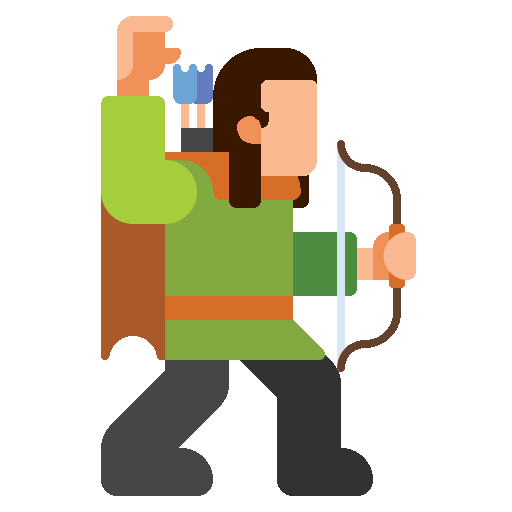
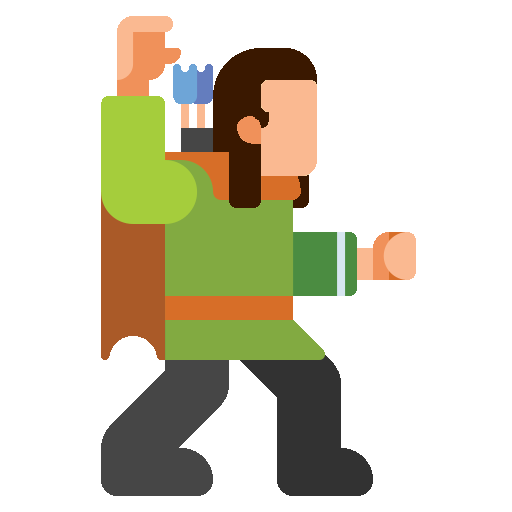
armes projectiles et tirs en cours

Changed region(s): [[0.6562, 0.25, 0.8125, 0.4688], [0.6562, 0.5312, 0.8125, 0.75]]

diff --git a/joueur.py b/joueur.py
@@ -3,33 +3,43 @@ import sys
 import ctypes
 import math
 from projectile import Projectile
-from tirs import Tir
+from arme import Arme
 
 
 class Player(pygame.sprite.Sprite):
-    def __init__(self, health=4, max_health=4, velocity=15, image="humain.png", weight=85, force=30):
+    def __init__(self, health=4, max_health=4, velocity=1, image="humain.png", weight=85, force=30, arme=Arme()):
         super().__init__()
         self.health = health
         self.max_health = max_health
         self.velocity = velocity
         self.image = pygame.image.load("assets/player/"+image)
+        self.image = pygame.transform.scale(self.image, (1280 / 15, 1280 / 15))
+        self.image = pygame.transform.flip(self.image, False, False)   # True, False pour les mechants
         self.rect = self.image.get_rect()
         self.rect.x = 100
         self.rect.y = 470
         self.weight = weight
         self.force = force
+        self.arme = arme
+        self.arme.rect.x = 100 + 16
+        self.arme.rect.y = 470
+        self.all_projectiles = pygame.sprite.Group()
 
-    def tir(self):
-        projectile
+    def tirer(self):
+        self.all_projectiles.add(Projectile(self))
 
+    # la vitesse ne change pas comme voulu car le perso se déplace en pixel (je crois) et que c'est pas assez précis,
+    # je sais pas comment faire mais au pire osef je verrai plus tard
     def move_right(self):
-        self.rect.x += int(self.velocity/10)
+        self.rect.x += (10 + self.velocity)/10
+        self.arme.rect.x += (10 + self.velocity)/10
 
     def move_left(self):
-        self.rect.x -= int(self.velocity/10)
+        self.rect.x -= (10 + self.velocity)/10
+        self.arme.rect.x -= (10 + self.velocity)/10
 
 
 # les classes/ joueurs : temporaire
-humain = Player(4, 4, 15, "humain.png", 85, 30)
-elf = Player(3, 3, 25, "elf.png", 60, 20)
-orc = Player(7, 7, 5, "orc.png", 120, 50)
+humain = Player(4, 4, 2, "humain.png", 85, 30)
+elf = Player(3, 3, 3, "elf.png", 60, 20)
+orc = Player(7, 7, 1, "orc.png", 120, 50)

diff --git a/main.py b/main.py
@@ -144,17 +144,20 @@ def main_menu():
 def start():
     # paramètrage de l'affichage de la map, hors de la boucle pour éviter un bug graphique,
     # remettre dans la boucle si nécessaire
-    level = pygame.image.load('assets/level/prairie.jpg')
-    level = pygame.transform.scale(level, (1280, 720))
     SCREEN = pygame.display.set_mode((1280, 720))
 
-    game.player.image = pygame.transform.scale(game.player.image, (1280 / 15, 1280 / 15))
     while True:
         # affichage de la map
-        SCREEN.blit(level, (0, 0))
+        SCREEN.blit(game.map.image, (0, 0))
 
         # affichage du joueur
         SCREEN.blit(game.player.image, game.player.rect)
+
+        # affichage des armes
+        SCREEN.blit(game.player.arme.image, game.player.arme.rect)
+
+        # affichage des projectiles
+        game.player.all_projectiles.draw(SCREEN)
 
         # verifier les actions du joueur
         if game.pressed.get(pygame.K_d) or game.pressed.get(pygame.K_RIGHT):
@@ -166,7 +169,7 @@ def start():
 
         print(game.player.rect.x)
 
-        PLAY_MOUSE_POS = pygame.mouse.get_pos()
+        # PLAY_MOUSE_POS = pygame.mouse.get_pos()
 
         # si le joueur ferme le jeu
         for event in pygame.event.get():
@@ -176,6 +179,12 @@ def start():
             # voir sur quelles touches le joueur appuis
             elif event.type == pygame.KEYDOWN:
                 game.pressed[event.key] = True
+
+                # tirer
+                if event.key == pygame.K_SPACE:
+                    mouse_position = pygame.mouse.get_pos()
+                    game.player.tirer()
+
             elif event.type == pygame.KEYUP:
                 game.pressed[event.key] = False
 

diff --git a/assets/tirs.py b/assets/tirs.py
@@ -5,13 +5,44 @@ import math
 from projectile import Projectile
 from jeu import Game
 from arme import Arme
-from maps import Map
+# from maps import Map
 
+
+def calculer_pente(x1, y1, x2, y2):
+    if (x2 - x1 == 0):
+        return False, 0
+    return True, (y2 - y1) / (x2 - x1)
+
+
+def calculer_angle(pente):
+    return math.degrees(math.atan(pente))
+
+
+def angle_entre_droite_et_abscisse(x1, y1, x2, y2):
+    pente = calculer_pente(x1, y1, x2, y2)
+    if pente[0]:
+        angle = calculer_angle(pente[1])
+    else:
+        if y2 < y1:
+            angle = -90
+        else:
+            angle = 90
+
+    return angle
+
+
+# Exemple d'utilisation
+x1, y1 = 0, 0
+x2, y2 = -10, 0
+
+angle = angle_entre_droite_et_abscisse(x1, y1, x2, y2)
+print("L'angle entre la droite et l'axe des abscisses est :", angle, "degrés.")
 
 class Tir:
 
-    def __init__(self, angle=45, gravite=Map().gravite, force=3 * Game().player.force - Arme().force_max,
-                 poids=Projectile().poids, x_initial=Game().player.rect.x, y_initial=Game().player.rect.y):
+    def __init__(self, angle=angle_entre_droite_et_abscisse(x1, y1, x2, y2), gravite=Game.map().gravite,
+                 force=3 * Game().player.force - Arme().force_max, poids=Projectile().poids,
+                 x_initial=Game().player.rect.x, y_initial=Game().player.rect.y):
         self.vitesse_initiale = 100 / force
         self.angle_rad = angle * (math.pi / 180)
         self.vitesse_x = self.vitesse_initiale * math.cos(self.angle_rad)

diff --git a/projectile.py b/projectile.py
@@ -2,16 +2,24 @@ import pygame
 import sys
 import ctypes
 import math
-from jeu import Game
-from arme import Arme
+from maps import Map
+# from jeu import Game
+# from arme import Arme
 
 
 class Projectile(pygame.sprite.Sprite):
 
-    def __init__(self, nom="flèche en bois", poids="0.2", image="flèche en bois.png", damage_multiplier="1"):
+    def __init__(self, player, nom="flèche en bois", poids="0.2", image="flèche en bois.png", damage_multiplier="1"):
         super().__init__()
         self.nom = nom
         self.poids = poids
         self.image = pygame.image.load("assets/player/" + image)
+        self.image = pygame.transform.scale(self.image, (1280 / 40, 1280 / 40))
+        self.image = pygame.transform.rotate(self.image, -45)    # 180 - 45 pour les mechants
         self.damage = damage_multiplier
         self.rect = self.image.get_rect()
+        self.rect.x = player.rect.x + 40
+        self.rect.y = player.rect.y + 20
+
+#    def move(self):
+#       self.rect.x += self.

diff --git a/arme.py b/arme.py
@@ -6,7 +6,7 @@ import math
 
 class Arme(pygame.sprite.Sprite):
 
-    def __init__(self, nom="arc long", projectile_type="fleches", image="arc_long.png", damage=2, poids=2,
+    def __init__(self, nom="arc long", projectile_type="fleches", image="arc long.png", damage=2, poids=2,
                  force_max=50, precision=0):
         super().__init__()
         self.weight = poids
@@ -14,9 +14,9 @@ class Arme(pygame.sprite.Sprite):
         self.nom = nom
         self.ammo = projectile_type
         self.image = pygame.image.load("assets/player/" + image)
+        self.image = pygame.transform.scale(self.image, (1280 / 22, 1280 / 22))
+        self.image = pygame.transform.rotate(self.image, 180 + 45)  # 45 pour les mechants
         self.rect = self.image.get_rect()
-        # self.x = x
-        # self.y = y
         self.damage = damage
         self.precision = precision
 

diff --git a/maps.py b/maps.py
@@ -6,6 +6,14 @@ import math
 
 class Map(pygame.sprite.Sprite):
 
-    def __init__(self, gravite="9.8"):
+    def __init__(self,nom="prairie.jpg", dimensions_ecran=(1280, 720), gravite="9.8"):
         super().__init__()
         self.gravite = gravite
+        self.image = pygame.image.load('assets/level/'+nom)
+        level = pygame.image.load('assets/level/prairie.jpg')
+        self.image = pygame.transform.scale(self.image, dimensions_ecran)
+        level = pygame.transform.scale(level, (1280, 720))
+        SCREEN = pygame.display.set_mode((1280, 720))
+
+
+prairie = Map("prairie.jpg", (1280, 720), "9.8")

diff --git a/jeu.py b/jeu.py
@@ -3,10 +3,14 @@ import sys
 import ctypes
 import math
 from joueur import Player
+from maps import Map
+# from projectile import Projectile
+# from arme import Arme
 
 
 class Game:
 
     def __init__(self):
         self.player = Player()
+        self.map = Map()
         self.pressed = {}
